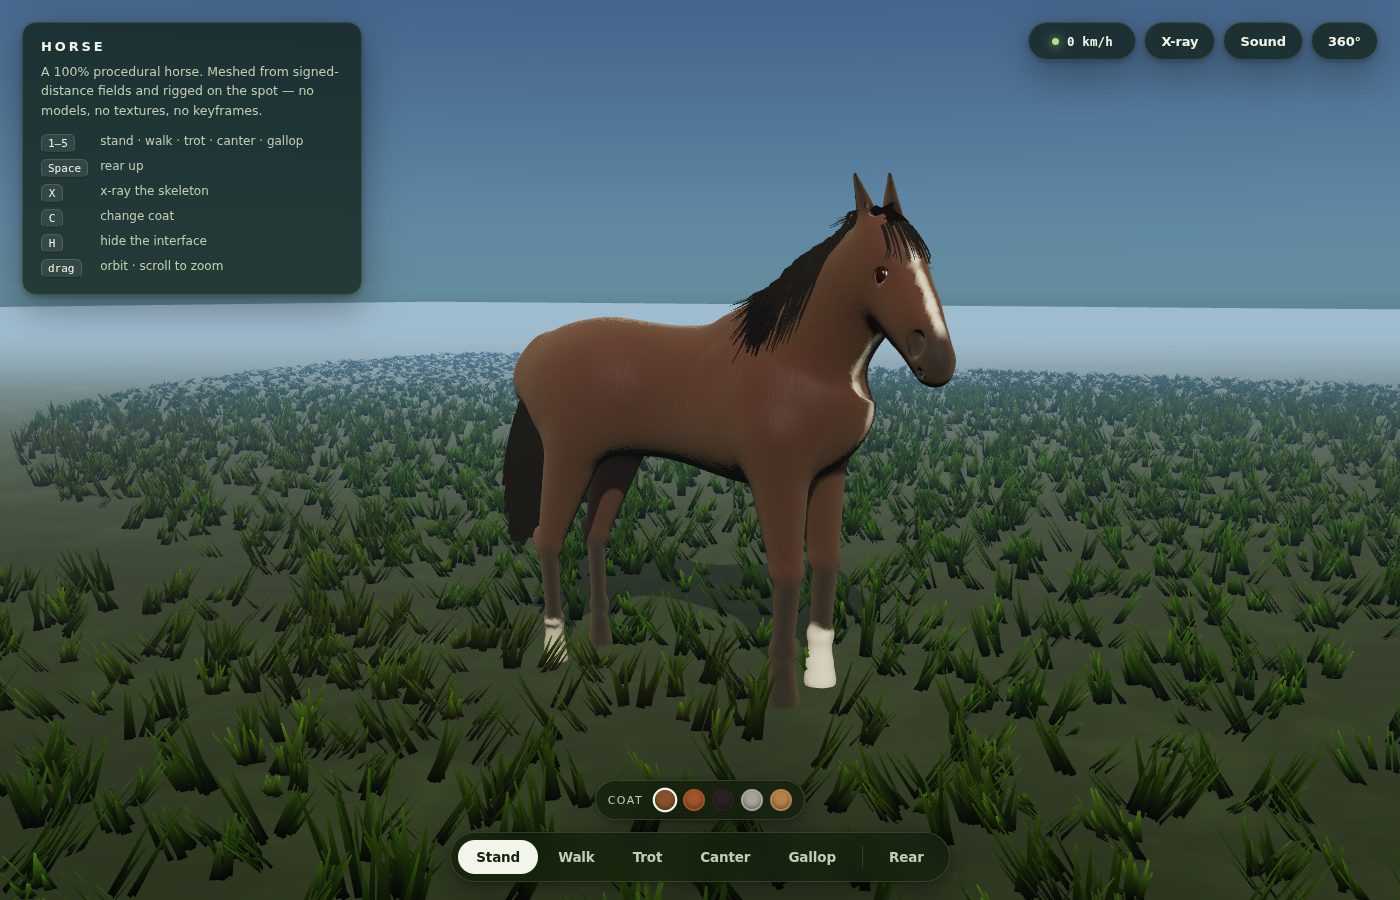
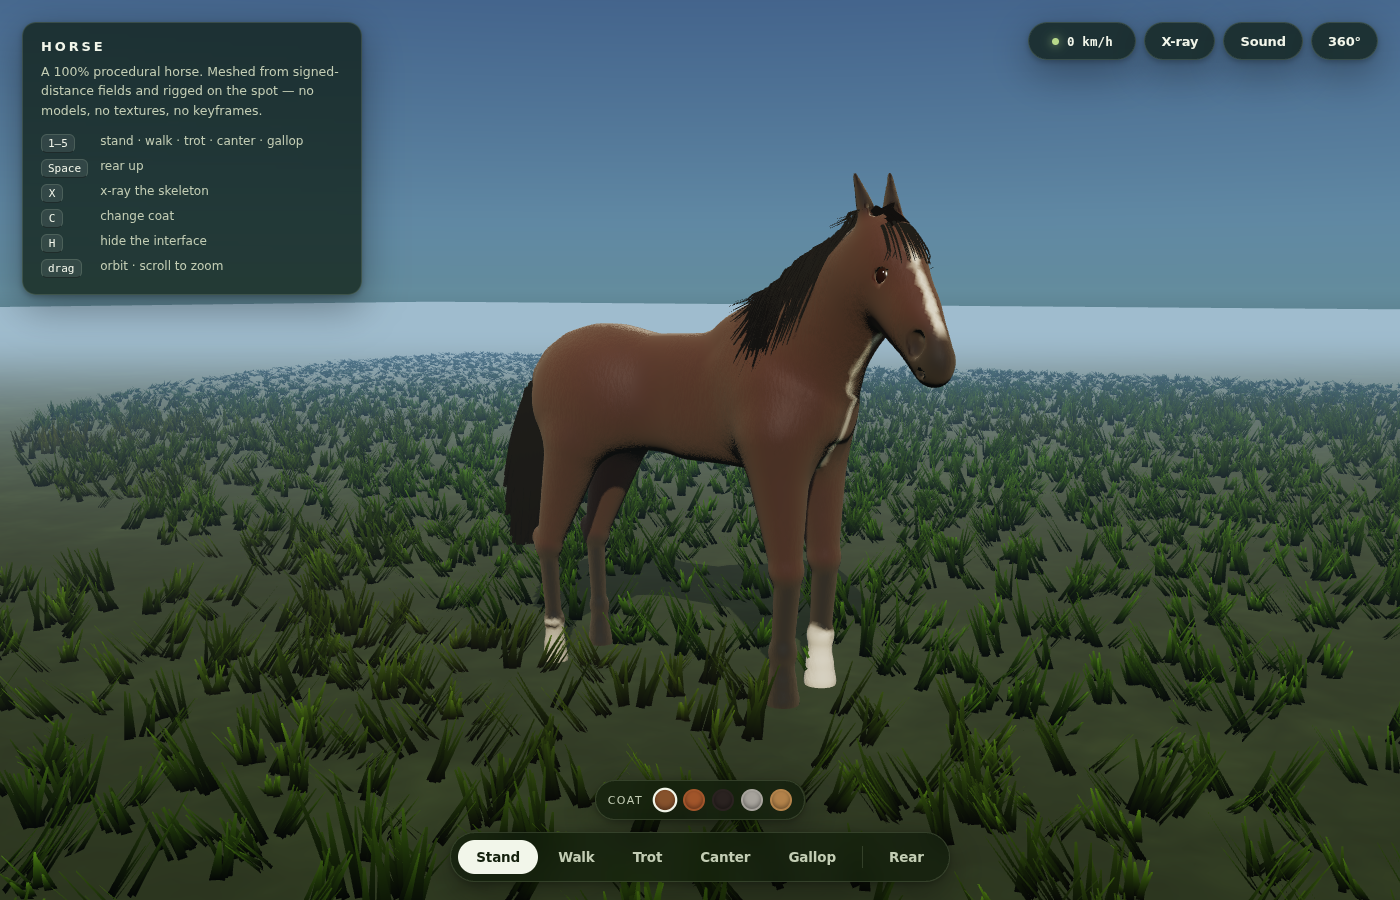
Loft the trunk instead of blending it out of ellipsoids
The hindquarter could not be fixed by tuning masses: every ellipsoid I
moved was smoothed into its neighbour, so opening the tail-leg gap closed
the croup, and vice versa. The trunk is now a lofted surface.

New distance primitive `xloft`: a swept tube along X described by explicit
cross-sections, each with its own topline, underline and half-width, and a
superellipse exponent. Points inside the axial range evaluate by profile
distance, outside by a rounded end cap. Because the surface *is* those
numbers, the silhouette is authored — the underline (`b2`) can drop away
from the hindquarter independently of the topline.

The trunk table is now twelve rows from breast to tail head, with the
buttock filler and the old dock cone removed: they were only propping up
the ellipsoid stack and each added a crease. Tail roots, mane and the
coat's face frame follow the new surface.

Two bugs found on the way, both silent: sections authored front-to-back
made the evaluator's ascending search fail (sorted now), and the axial
term returned 0 for every interior point instead of the profile distance,
which collapsed the whole trunk.

diff --git a/src/core/sdf.ts b/src/core/sdf.ts
@@ -10,7 +10,7 @@
 import { smin, smax } from "./blend";
 
 export type Prim = {
-  kind: "sphere" | "ellipsoid" | "capsule" | "cone" | "box";
+  kind: "sphere" | "ellipsoid" | "capsule" | "cone" | "box" | "xloft";
   /** center (sphere/ellipsoid/box) or segment start (capsule/cone) */
   cx: number;
   cy: number;
@@ -41,7 +41,25 @@ export type Prim = {
   sub: boolean;
   /** bounding radius from the primitive's centre, for culling */
   bound: number;
+  /** cross-sections of an xloft */
+  sections?: AxisSection[];
 };
+
+/**
+ * One cross-section of a lofted body, perpendicular to the X axis.
+ * `b` is the half-height above the centre line, `b2` the half-height below
+ * it, so the topline and the underline are independent; `n` is the
+ * superellipse exponent (2 = ellipse, higher = flatter sides).
+ */
+export interface AxisSection {
+  x: number;
+  cy: number;
+  cz: number;
+  a: number;
+  b: number;
+  b2: number;
+  n: number;
+}
 
 const IDENTITY = [1, 0, 0, 0, 1, 0, 0, 0, 1] as const;
 
@@ -133,6 +151,28 @@ export const box = (c: number[], half: number[], euler: [number, number, number]
   return p;
 };
 
+/**
+ * A lofted tube along X: the surface is exactly the interpolated sections, so
+ * the silhouette is authored rather than produced by blending masses.
+ */
+export const xloft = (sectionsIn: AxisSection[], k = 0.12): Prim => {
+  const p = base();
+  p.kind = "xloft";
+  // the evaluator walks the sections in ascending x
+  const sections = [...sectionsIn].sort((u, v) => u.x - v.x);
+  p.sections = sections;
+  p.k = k;
+  const x0 = sections[0].x;
+  const x1 = sections[sections.length - 1].x;
+  p.cx = (x0 + x1) / 2;
+  p.cy = (sections.reduce((m, s) => Math.max(m, s.cy + s.b), -1e9) +
+          sections.reduce((m, s) => Math.min(m, s.cy - s.b2), 1e9)) / 2;
+  let r = 0;
+  for (const s of sections) r = Math.max(r, Math.max(s.a, s.b, s.b2));
+  p.bound = Math.hypot((x1 - x0) / 2, r) + 0.06;
+  return p;
+};
+
 export const subtract = (p: Prim, k = 0.02): Prim => {
   p.sub = true;
   p.k = k;
@@ -190,6 +230,34 @@ function evalPrim(p: Prim, px: number, py: number, pz: number): number {
       if (Math.sign(z) * a2 * z2 > k) return Math.sqrt(x2 + z2) * il2 - r2;
       if (Math.sign(y) * a2 * y2 < k) return Math.sqrt(x2 + y2) * il2 - r1;
       return (Math.sqrt(x2 * a2 * il2) + y * rr) * il2 - r1;
+    }
+    case "xloft": {
+      const S = p.sections!;
+      const n = S.length;
+      const x0 = S[0].x;
+      const x1 = S[n - 1].x;
+      const xc = px < x0 ? x0 : px > x1 ? x1 : px;
+      let i = 0;
+      while (i < n - 2 && S[i + 1].x < xc) i++;
+      const s0 = S[i];
+      const s1 = S[i + 1];
+      const t = s1.x > s0.x ? (xc - s0.x) / (s1.x - s0.x) : 0;
+      const cy = s0.cy + (s1.cy - s0.cy) * t;
+      const cz = s0.cz + (s1.cz - s0.cz) * t;
+      const a = s0.a + (s1.a - s0.a) * t;
+      const e = s0.n + (s1.n - s0.n) * t;
+      const dy = py - cy;
+      const b = dy >= 0 ? s0.b + (s1.b - s0.b) * t : s0.b2 + (s1.b2 - s0.b2) * t;
+      const dz = pz - cz;
+      const u = Math.abs(dy) / b;
+      const v = Math.abs(dz) / a;
+      const m = Math.pow(Math.pow(u, e) + Math.pow(v, e), 1 / e);
+      const prof = (m - 1) * Math.min(a, b);
+      // axial: how far past the ends the point sits (negative while inside,
+      // so the interior keeps the profile distance instead of collapsing to 0)
+      const dx = px < x0 ? x0 - px : px > x1 ? px - x1 : -1e9;
+      if (dx <= 0) return prof;
+      return Math.hypot(Math.max(prof, 0), dx) + Math.min(Math.max(prof, dx), 0);
     }
     case "box": {
       const qx0 = px - p.cx, qy0 = py - p.cy, qz0 = pz - p.cz;

diff --git a/src/horse/anatomy.ts b/src/horse/anatomy.ts
@@ -18,7 +18,7 @@
  *   poll          0.94 / 1.95      muzzle         1.35 / 1.47
  */
 
-import { capsule, compile, cone, ellipsoid, sphere, subtract, type Prim, type Sdf } from "../core/sdf";
+import { capsule, compile, cone, ellipsoid, sphere, subtract, xloft, type AxisSection, type Prim, type Sdf } from "../core/sdf";
 
 export type Vec3 = [number, number, number];
 
@@ -109,30 +109,37 @@ const sec = (x: number, top: number, bottom: number, hw: number, rot = 0, rx?: n
  * Trunk — front to back
  * ------------------------------------------------------------------ */
 
-const BODY: Section[] = [
-  sec(0.62, 1.46, 1.12, 0.125), // breast
-  sec(0.50, 1.56, 1.04, 0.165), // chest
-  sec(0.30, 1.625, 1.00, 0.185), // withers / girth
-  sec(0.04, 1.585, 1.015, 0.196), // barrel
-  sec(-0.28, 1.588, 1.06, 0.19), // loin
-  sec(-0.55, 1.615, 1.13, 0.176), // croup
-  sec(-0.76, 1.575, 1.16, 0.158, 0, 0.16), // buttock
-  sec(-0.90, 1.495, 1.21, 0.132, 0, 0.12), // point of buttock
-  sec(-0.975, 1.435, 1.28, 0.088, 0, 0.082), // tail head
+/**
+ * The trunk, as a lofted surface: each row is (x, topline, underline,
+ * half-width, superellipse exponent). Because the surface *is* these
+ * numbers, the croup and buttock lines are authored instead of emerging
+ * from blended masses. b2 (the underline) is what opens the gap between the
+ * hindquarter and the leg.
+ */
+const BODY_LOFT: AxisSection[] = [
+  { x: 0.64, cy: 1.30, cz: 0, a: 0.10, b: 0.13, b2: 0.13, n: 2.45 }, // breast
+  { x: 0.56, cy: 1.30, cz: 0, a: 0.14, b: 0.25, b2: 0.26, n: 2.45 },
+  { x: 0.44, cy: 1.29, cz: 0, a: 0.168, b: 0.28, b2: 0.26, n: 2.45 }, // chest
+  { x: 0.30, cy: 1.30, cz: 0, a: 0.182, b: 0.325, b2: 0.30, n: 2.45 }, // withers / girth
+  { x: 0.10, cy: 1.30, cz: 0, a: 0.192, b: 0.30, b2: 0.29, n: 2.45 }, // barrel
+  { x: -0.10, cy: 1.30, cz: 0, a: 0.194, b: 0.295, b2: 0.285, n: 2.45 },
+  { x: -0.30, cy: 1.315, cz: 0, a: 0.19, b: 0.275, b2: 0.255, n: 2.45 }, // loin
+  { x: -0.50, cy: 1.335, cz: 0, a: 0.18, b: 0.285, b2: 0.235, n: 2.45 },
+  { x: -0.62, cy: 1.35, cz: 0, a: 0.172, b: 0.27, b2: 0.215, n: 2.45 }, // croup
+  { x: -0.76, cy: 1.36, cz: 0, a: 0.16, b: 0.225, b2: 0.2, n: 2.45 }, // buttock
+  { x: -0.88, cy: 1.355, cz: 0, a: 0.128, b: 0.165, b2: 0.165, n: 2.45 }, // point of buttock
+  { x: -0.95, cy: 1.355, cz: 0, a: 0.085, b: 0.105, b2: 0.115, n: 2.45 }, // tail head
+  { x: -1.00, cy: 1.355, cz: 0, a: 0.05, b: 0.06, b2: 0.07, n: 2.45 },
 ];
 
 /** Withers, crest and throat are separate so they can read as ridges. */
 function trunkPrims(): Prim[] {
-  const out = loft(BODY, 4, 0.175, 0.12);
+  const out: Prim[] = [xloft(BODY_LOFT, 0.12)];
   // withers ridge
   out.push(capsule([0.14, 1.60, 0], [0.36, 1.625, 0], 0.05, 0.13));
   // shoulder blades — the sloped mass in front of the barrel
   out.push(ellipsoid([0.42, 1.30, 0.135], [0.19, 0.235, 0.07], [0, 0, 0.55], 0.15));
   out.push(ellipsoid([0.42, 1.30, -0.135], [0.19, 0.235, 0.07], [0, 0, 0.55], 0.15));
-  // tail head bump
-  out.push(cone([-0.94, 1.49, 0], [-1.10, 1.28, 0], 0.075, 0.034, 0.07));
-  // girth: the chest hangs a little deeper than the ellipse
-  out.push(ellipsoid([0.28, 1.19, 0], [0.28, 0.17, 0.235], null, 0.17));
   return out;
 }
 

diff --git a/src/debug.ts b/src/debug.ts
@@ -33,6 +33,12 @@ ground.receiveShadow = true;
 scene.add(ground);
 
 const sdf = buildSdf();
+console.log("probe", [0, 1.3, 0].map((_, i) => 0), 
+  "barrel", sdf(0, 1.3, 0).toFixed(3),
+  "chest", sdf(0.4, 1.3, 0).toFixed(3),
+  "croup", sdf(-0.6, 1.35, 0).toFixed(3),
+  "tail", sdf(-0.95, 1.35, 0).toFixed(3),
+  "outside", sdf(0, 2.0, 0).toFixed(3));
 const mesh = surfaceNets(sdf, SDF_BOUNDS.min, SDF_BOUNDS.max, {
   h: Number(new URLSearchParams(location.search).get("h") ?? 0.022),
   projectIterations: Number(new URLSearchParams(location.search).get("proj") ?? 2),

diff --git a/src/horse/hair.ts b/src/horse/hair.ts
@@ -227,8 +227,8 @@ function anchoredZ(pts: Vec3[], v: number): number {
 export function buildTail(joints: Joints, seed = 2): MeshData {
   const b: RibbonBuilder = { positions: [], indices: [], count: 0 };
   // the dock: the fleshy base, from the croup back and down
-  const dockA: Vec3 = [-0.965, 1.495, 0];
-  const dockB: Vec3 = [-1.105, 1.30, 0];
+  const dockA: Vec3 = [-0.945, 1.445, 0];
+  const dockB: Vec3 = [-1.10, 1.295, 0];
   const strands = 380;
 
   for (let i = 0; i < strands; i++) {
